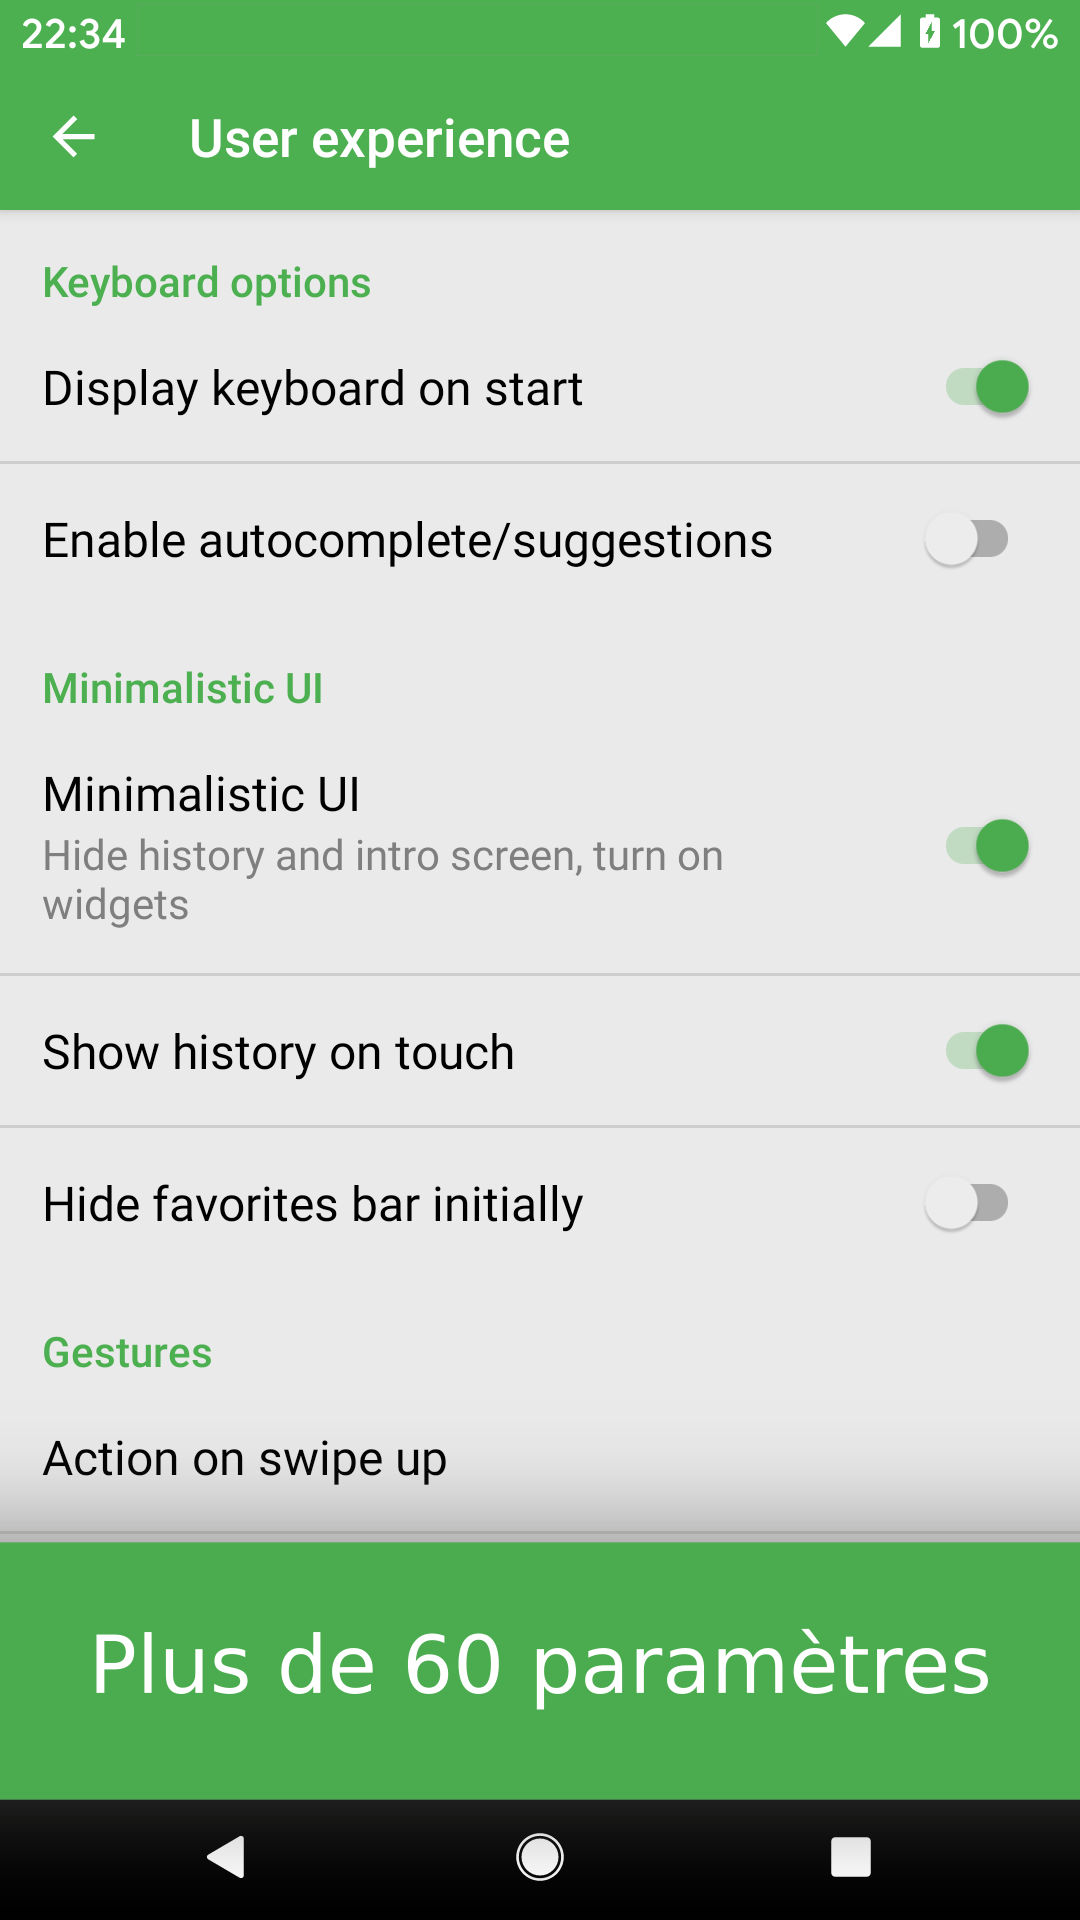
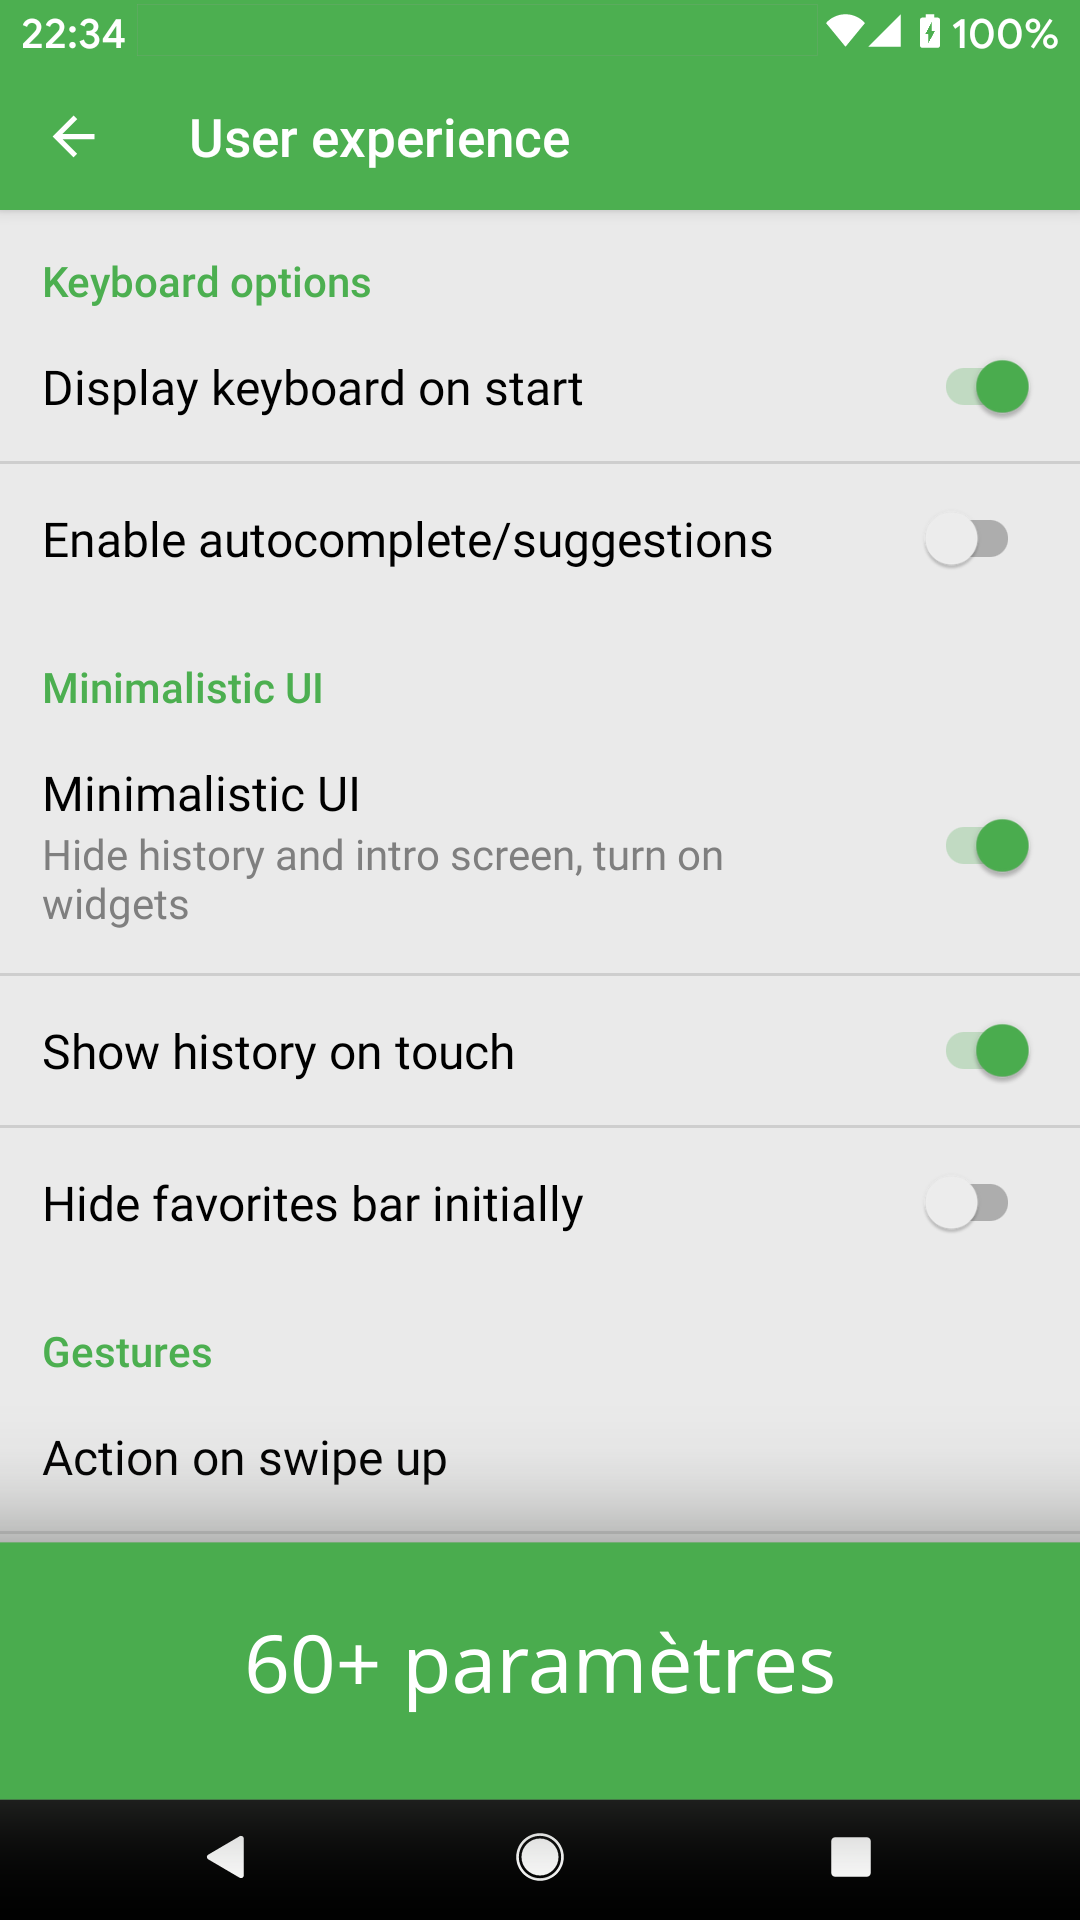
Updated screenshots and Store description

Changed region(s): [[0.3667, 0.8438, 0.9167, 0.9062], [0.0917, 0.8438, 0.3361, 0.9062]]

diff --git a/fastlane/generate_graphics.py b/fastlane/generate_graphics.py
@@ -22,6 +22,8 @@ def get_last_change(file):
         out = subprocess.check_output(['git', 'log', '-1', r'--pretty=%ci', file]).strip()
     except subprocess.CalledProcessError:
         out = b"2020-01-01 00:00:00 +0200"
+    if out.decode('ascii') == '':
+        out = b"2020-01-01 00:00:00 +0200"
     return datetime.datetime.strptime(out.decode('ascii'), r"%Y-%m-%d %H:%M:%S %z")
 
 

diff --git a/fastlane/README.md b/fastlane/README.md
@@ -1,44 +1,56 @@
 fastlane documentation
-================
+----
+
 # Installation
 
 Make sure you have the latest version of the Xcode command line tools installed:
 
-```
+```sh
 xcode-select --install
 ```
 
-Install _fastlane_ using
-```
-[sudo] gem install fastlane -NV
-```
-or alternatively using `brew install fastlane`
+For _fastlane_ installation instructions, see [Installing _fastlane_](https://docs.fastlane.tools/#installing-fastlane)
 
 # Available Actions
+
 ## Android
+
 ### android beta
+
+```sh
+[bundle exec] fastlane android beta
 ```
-fastlane android beta
-```
+
 Upload to beta channel
+
 ### android prod
+
+```sh
+[bundle exec] fastlane android prod
 ```
-fastlane android prod
-```
+
 Promote beta to production
+
 ### android sync
+
+```sh
+[bundle exec] fastlane android sync
 ```
-fastlane android sync
-```
+
 Update current production description
+
 ### android images
+
+```sh
+[bundle exec] fastlane android images
 ```
-fastlane android images
-```
+
 Generate images for all locales
 
 ----
 
 This README.md is auto-generated and will be re-generated every time [_fastlane_](https://fastlane.tools) is run.
-More information about fastlane can be found on [fastlane.tools](https://fastlane.tools).
-The documentation of fastlane can be found on [docs.fastlane.tools](https://docs.fastlane.tools).
+
+More information about _fastlane_ can be found on [fastlane.tools](https://fastlane.tools).
+
+The documentation of _fastlane_ can be found on [docs.fastlane.tools](https://docs.fastlane.tools).
